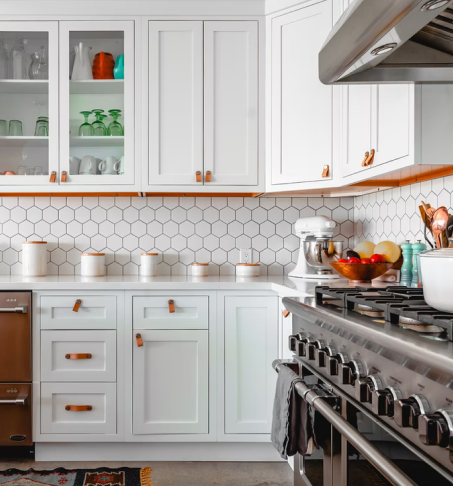
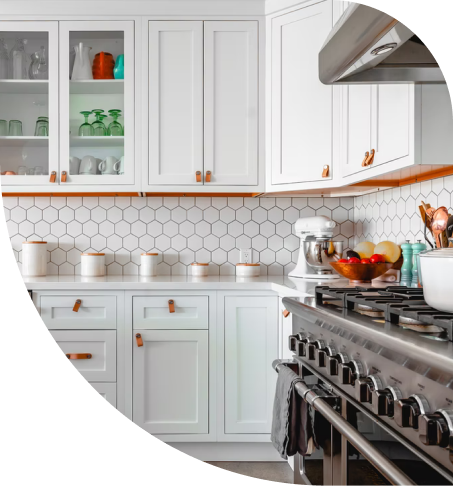
finished how we work section

Changed region(s): [[0.0, 0.4012, 1.0, 1.0], [0.7726, 0.0, 1.0, 0.2469]]

diff --git a/services.html b/services.html
@@ -4,6 +4,10 @@
     <meta charset="UTF-8">
     <meta name="viewport" content="width=device-width, initial-scale=1.0">
     <title>Сервіси</title>
+    <link rel="preconnect" href="https://fonts.googleapis.com">
+    <link rel="preconnect" href="https://fonts.gstatic.com" crossorigin>
+    <link href="https://fonts.googleapis.com/css2?family=DM+Serif+Display:ital@0;1&family=Jost:ital,wght@0,100..900;1,100..900&display=swap" rel="stylesheet">
+
     <link rel="stylesheet" href="assets/css/style.css">
     <link rel="stylesheet" href="assets/css/services.css">
 </head>
@@ -118,70 +122,70 @@
             </div>
         </section>
 
-    <section class="how-we-work-section content-wrap d-flex item-center">
-        
-        <div class="how-we-work-header d-flex item-center">
-            <h2 class="title">Як Ми Працюємо</h2>
-            <p class="subtitle">Покроковий та прозорий процес перетворення ваших ідей на бездоганний і затишний простір.</p>
-        </div>
+        <section class="how-we-work-section content-wrap d-flex item-center">
+            
+            <div class="how-we-work-header d-flex item-center">
+                <h2 class="title">Як Ми Працюємо</h2>
+                <p class="subtitle">Покроковий та прозорий процес перетворення ваших ідей на бездоганний і затишний простір.</p>
+            </div>
 
-        <div class="how-we-work-card d-flex item-center">
-            <img class="how-we-work-image" src="assets/images/how-we-work-photo-1.png" alt="Обговорення проєкту дизайнерами">
-            <div class="how-we-work-card-info d-flex">
-                <div class="how-we-work-card-header d-flex">
-                    <img src="assets/images/icons/how-we-work-icon-1.svg" alt="Полотно">
-                    <span class="how-we-work-number">01</span>
-                </div>
-                <div class="how-we-work-card-content d-flex">
-                    <h3 class="how-we-work-title">Концепти та Деталі</h3>
-                    <p class="subtitle">Обговорюємо ваші побажання, аналізуємо простір, проводимо заміри та формуємо первинну концепцію майбутнього інтер'єру.</p>
+            <div class="how-we-work-card d-flex item-center">
+                <img class="how-we-work-image" src="assets/images/how-we-work-photo-1.png" alt="Обговорення проєкту дизайнерами">
+                <div class="how-we-work-card-info d-flex">
+                    <div class="how-we-work-card-header d-flex">
+                        <img src="assets/images/icons/how-we-work-icon-1.svg" alt="Полотно">
+                        <span class="how-we-work-number">01</span>
+                    </div>
+                    <div class="how-we-work-card-content d-flex">
+                        <h3 class="how-we-work-title">Концепти та Деталі</h3>
+                        <p class="subtitle">Обговорюємо ваші побажання, аналізуємо простір, проводимо заміри та формуємо первинну концепцію майбутнього інтер'єру.</p>
+                    </div>
                 </div>
             </div>
-        </div>
 
-        <div class="how-we-work-card how-we-work-card--reverse d-flex item-center">
-            <img class="how-we-work-image" src="assets/images/how-we-work-photo-2.png" alt="Розробка концепції">
-            <div class="how-we-work-card-info d-flex">
-                <div class="how-we-work-card-header d-flex">
-                    <img src="assets/images/icons/how-we-work-icon-2.svg" alt="Олівці">
-                    <span class="how-we-work-number">02</span>
-                </div>
-                <div class="how-we-work-card-content d-flex">
-                    <h3 class="how-we-work-title">Ідея для Роботи</h3>
-                    <p class="subtitle">Розробляємо планувальні рішення, формуємо мудборди, узгоджуємо палітру кольорів і матеріали для створення гармонійного середовища.</p>
+            <div class="how-we-work-card how-we-work-card--reverse d-flex item-center">
+                <img class="how-we-work-image" src="assets/images/how-we-work-photo-2.png" alt="Розробка концепції">
+                <div class="how-we-work-card-info d-flex">
+                    <div class="how-we-work-card-header d-flex">
+                        <img src="assets/images/icons/how-we-work-icon-2.svg" alt="Олівці">
+                        <span class="how-we-work-number">02</span>
+                    </div>
+                    <div class="how-we-work-card-content d-flex">
+                        <h3 class="how-we-work-title">Ідея для Роботи</h3>
+                        <p class="subtitle">Розробляємо планувальні рішення, формуємо мудборди, узгоджуємо палітру кольорів і матеріали для створення гармонійного середовища.</p>
+                    </div>
                 </div>
             </div>
-        </div>
 
-        <div class="how-we-work-card d-flex item-center">
-            <img class="how-we-work-image" src="assets/images/how-we-work-photo-3.png" alt="Візуалізація кухні">
-            <div class="how-we-work-card-info d-flex">
-                <div class="how-we-work-card-header d-flex">
-                    <img src="assets/images/icons/how-we-work-icon-3.svg" alt="Будинок">
-                    <span class="how-we-work-number">03</span>
-                </div>
-                <div class="how-we-work-card-content d-flex">
-                    <h3 class="how-we-work-title">Дизайн</h3>
-                    <p class="subtitle">Створюємо фотореалістичні 3D-візуалізації кожного приміщення, підбираємо меблі, сантехніку та світильники під ваш бюджет.</p>
+            <div class="how-we-work-card d-flex item-center">
+                <img class="how-we-work-image" src="assets/images/how-we-work-photo-3.png" alt="Візуалізація кухні">
+                <div class="how-we-work-card-info d-flex">
+                    <div class="how-we-work-card-header d-flex">
+                        <img src="assets/images/icons/how-we-work-icon-3.svg" alt="Будинок">
+                        <span class="how-we-work-number">03</span>
+                    </div>
+                    <div class="how-we-work-card-content d-flex">
+                        <h3 class="how-we-work-title">Дизайн</h3>
+                        <p class="subtitle">Створюємо фотореалістичні 3D-візуалізації кожного приміщення, підбираємо меблі, сантехніку та світильники під ваш бюджет.</p>
+                    </div>
                 </div>
             </div>
-        </div>
 
-        <div class="how-we-work-card how-we-work-card--reverse d-flex item-center">
-            <img class="how-we-work-image" src="assets/images/how-we-work-photo-4.jpg" alt="Реалізований інтер'єр">
-            <div class="how-we-work-card-info d-flex">
-                <div class="how-we-work-card-header d-flex">
-                    <img src="assets/images/icons/how-we-work-icon-4.svg" alt="Досягнення цілі">
-                    <span class="how-we-work-number">04</span>
-                </div>
-                <div class="how-we-work-card-content d-flex">
-                    <h3 class="how-we-work-title">Досконалість</h3>
-                    <p class="subtitle">Готуємо повний пакет технічних креслень для будівельників, здійснюємо авторський нагляд і контролюємо точність реалізації.</p>
+            <div class="how-we-work-card how-we-work-card--reverse d-flex item-center">
+                <img class="how-we-work-image" src="assets/images/how-we-work-photo-4.png" alt="Реалізований інтер'єр">
+                <div class="how-we-work-card-info d-flex">
+                    <div class="how-we-work-card-header d-flex">
+                        <img src="assets/images/icons/how-we-work-icon-4.svg" alt="Досягнення цілі">
+                        <span class="how-we-work-number">04</span>
+                    </div>
+                    <div class="how-we-work-card-content d-flex">
+                        <h3 class="how-we-work-title">Досконалість</h3>
+                        <p class="subtitle">Готуємо повний пакет технічних креслень для будівельників, здійснюємо авторський нагляд і контролюємо точність реалізації.</p>
+                    </div>
                 </div>
             </div>
-        </div>
 
-    </section>
+        </section>
 
 
 

diff --git a/assets/css/services.css b/assets/css/services.css
@@ -82,6 +82,67 @@
     padding: 40px 20px;
 }
 
+/* how we work section */
+
+.how-we-work-section, .how-we-work-header, .how-we-work-card-content, .how-we-work-card-info{
+    display: flex;
+    flex-direction: column;
+}
+
+.how-we-work-section{
+    margin: 20px;
+    background-color: var(--color-bright);
+    border-radius: 70px;
+    padding-top: 80px;
+    margin-bottom: 80px;
+}
+
+.how-we-work-header{
+    text-align: center;
+}
+
+.how-we-work-card{
+    margin: 50px;
+}
+
+.how-we-work-card-header{
+    justify-content: space-between;
+    align-items: center;
+    color: white;
+    font-size: 7.5rem;
+    margin-bottom: 40px;
+}
+
+.how-we-work-card-header img{    
+    width: 90px;
+    height: 90px;
+}
+
+.how-we-work-image{
+    display: none;
+}
+
+.how-we-work-number{
+    font-family: 'DM Serif Display', serif;
+    line-height: 1;
+}
+
+.how-we-work-card-content .subtitle{
+    max-height: 99px;
+    max-width: 456px;
+    min-width: 279px;
+    font-size: 1.375rem;
+}
+
+.how-we-work-title{
+    margin-bottom: 11px;
+    font-size: 2.1rem;
+}
+
+.how-we-work-card--reverse{
+    flex-direction: row-reverse;
+}
+
 /* |-------------| Media Query |-------------| */
 
 @media screen and (min-width: 768px) {
@@ -99,6 +160,41 @@
     .services-section{
         margin-bottom: 200px;
     }
+
+    .how-we-work-section{
+        margin: 0 auto;
+        padding-top: 160px;
+        padding-bottom: 160px;
+        margin-bottom: 200px;
+    }
+
+    .how-we-work-section .subtitle{
+        max-width: 802px;
+    }
+
+    .how-we-work-header{
+        text-align: center;
+        margin-bottom: 100px;
+    }
+
+    .how-we-work-card{
+        margin: 0 116px 70px;
+        gap: 51px;
+    }
+
+    .how-we-work-card-header{
+        margin-bottom: 58px; 
+    }    
+
+    .how-we-work-image {
+        display: block;
+        width: 452px;
+        height: 485px;
+        flex-shrink: 0;
+        object-fit: cover;
+    }
+
+
 }
 
 @media screen and (min-width: 1220px) {
